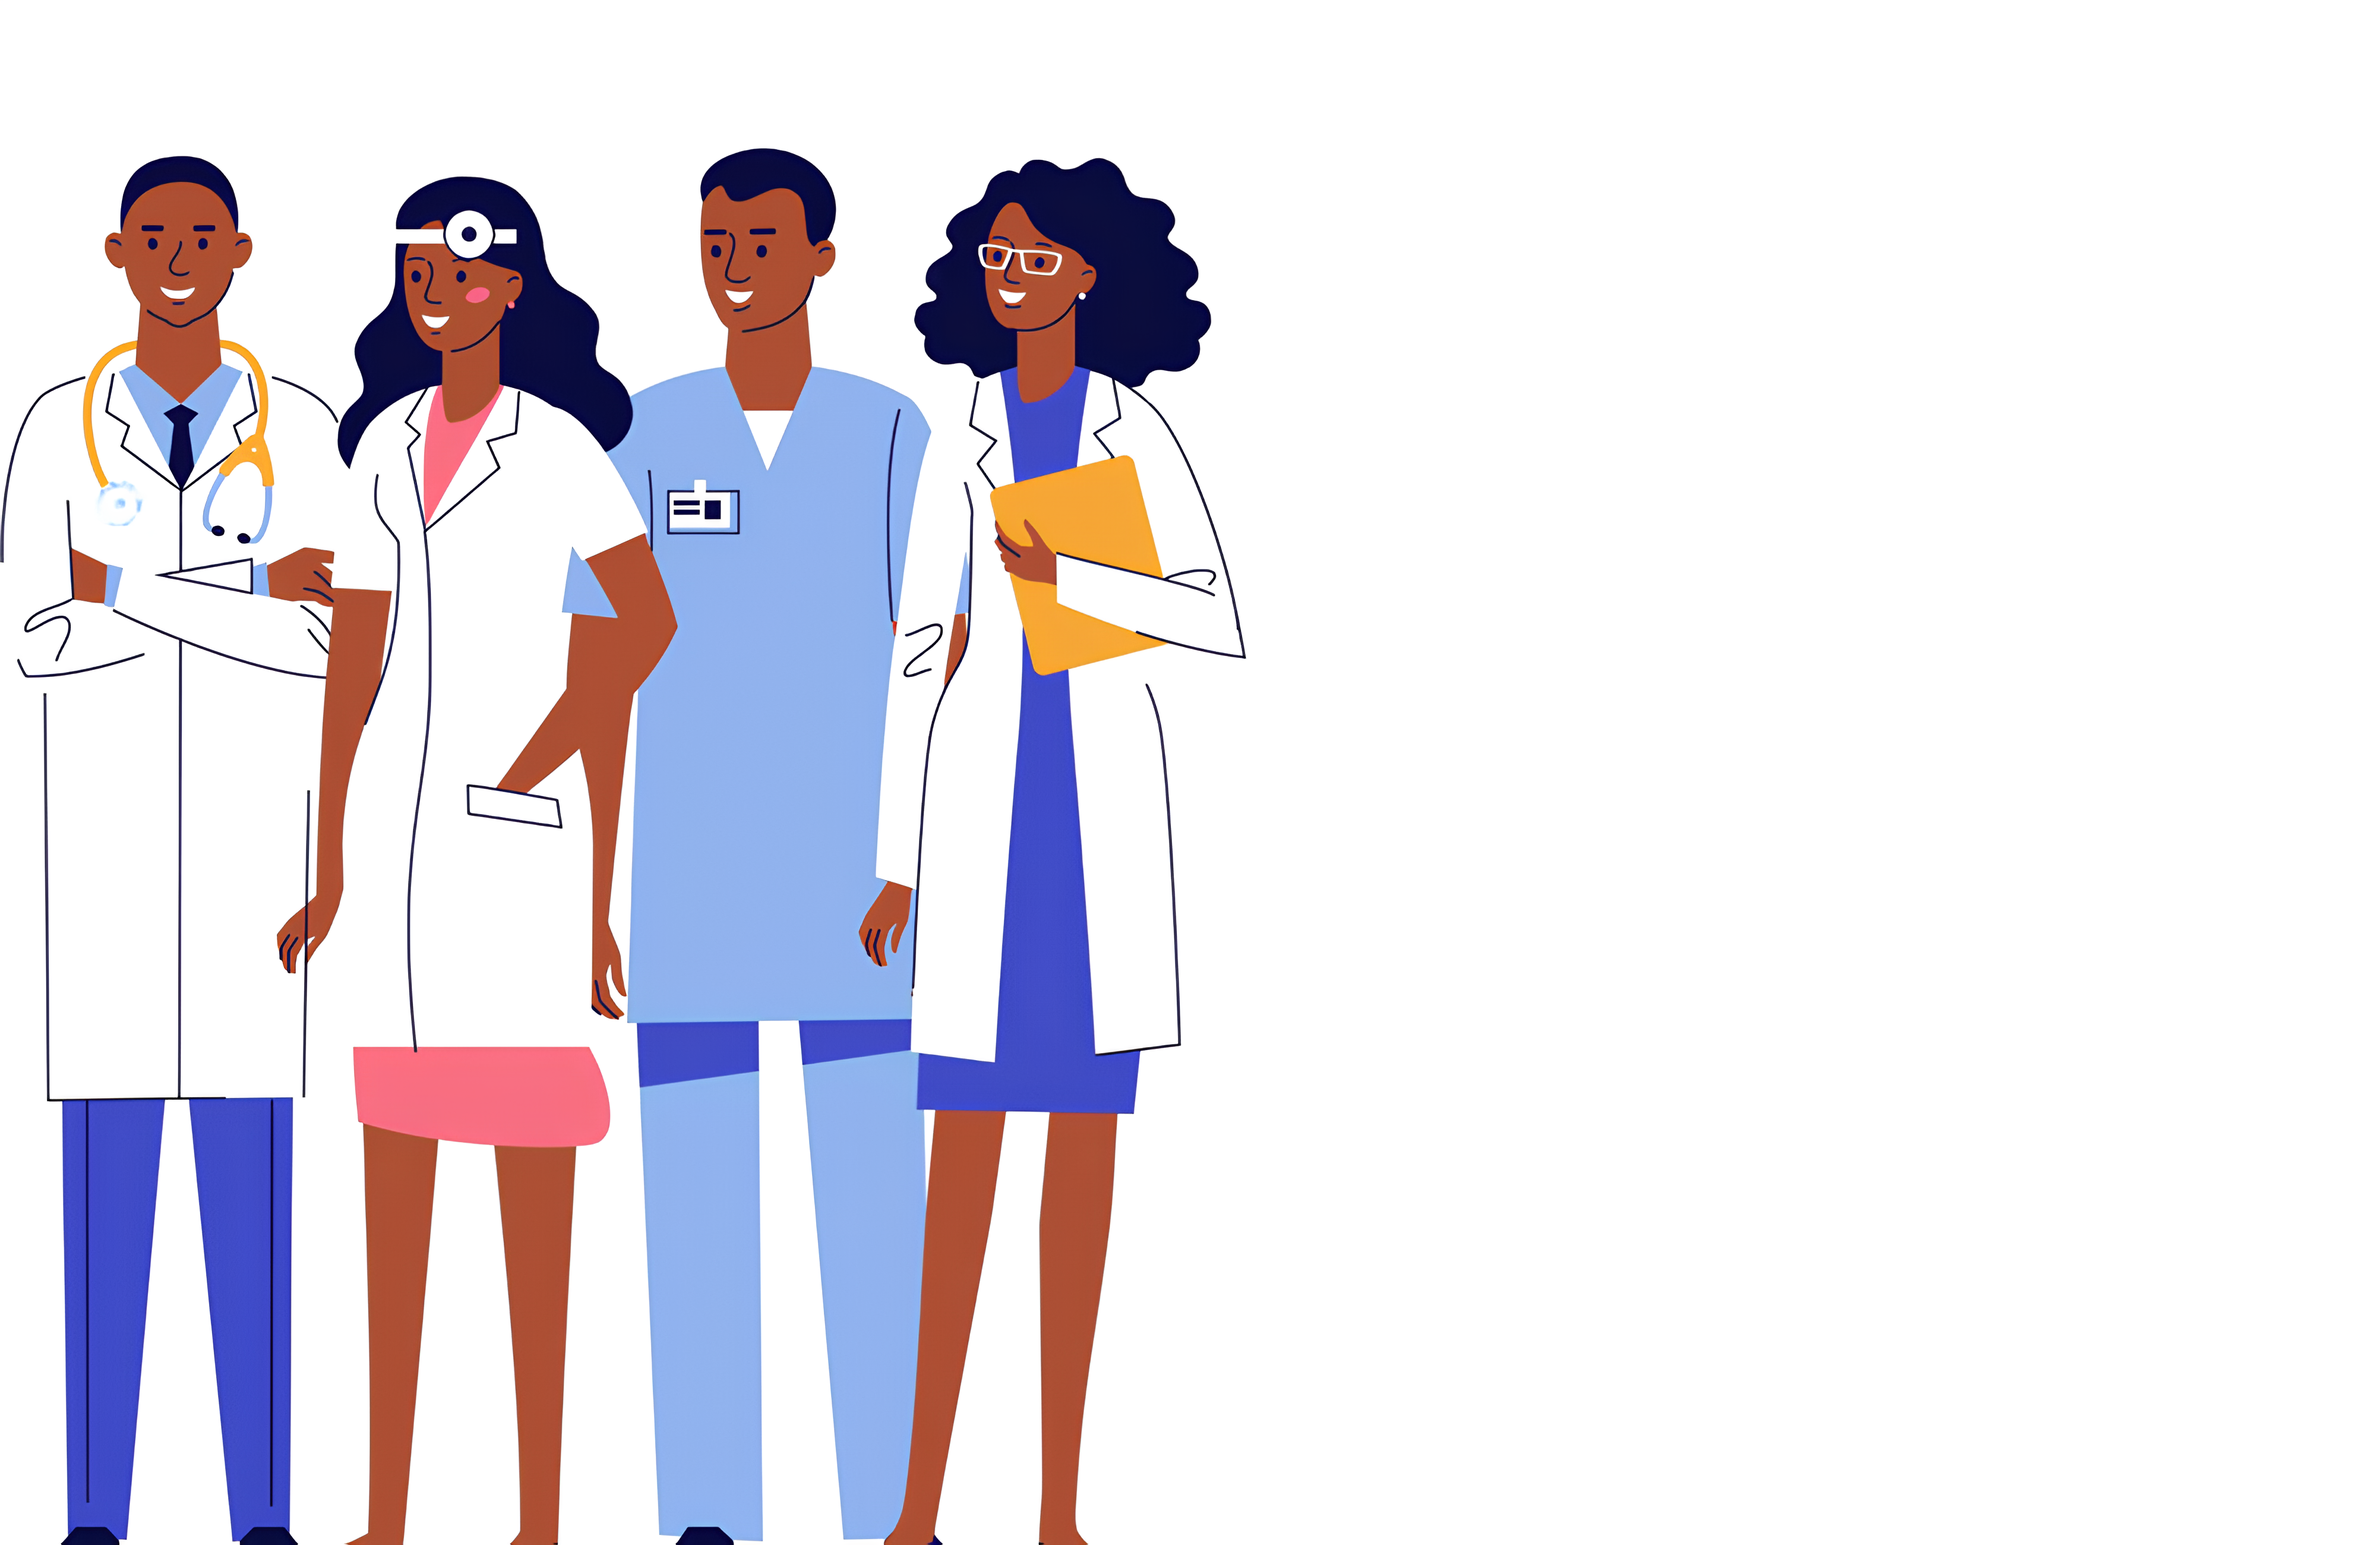
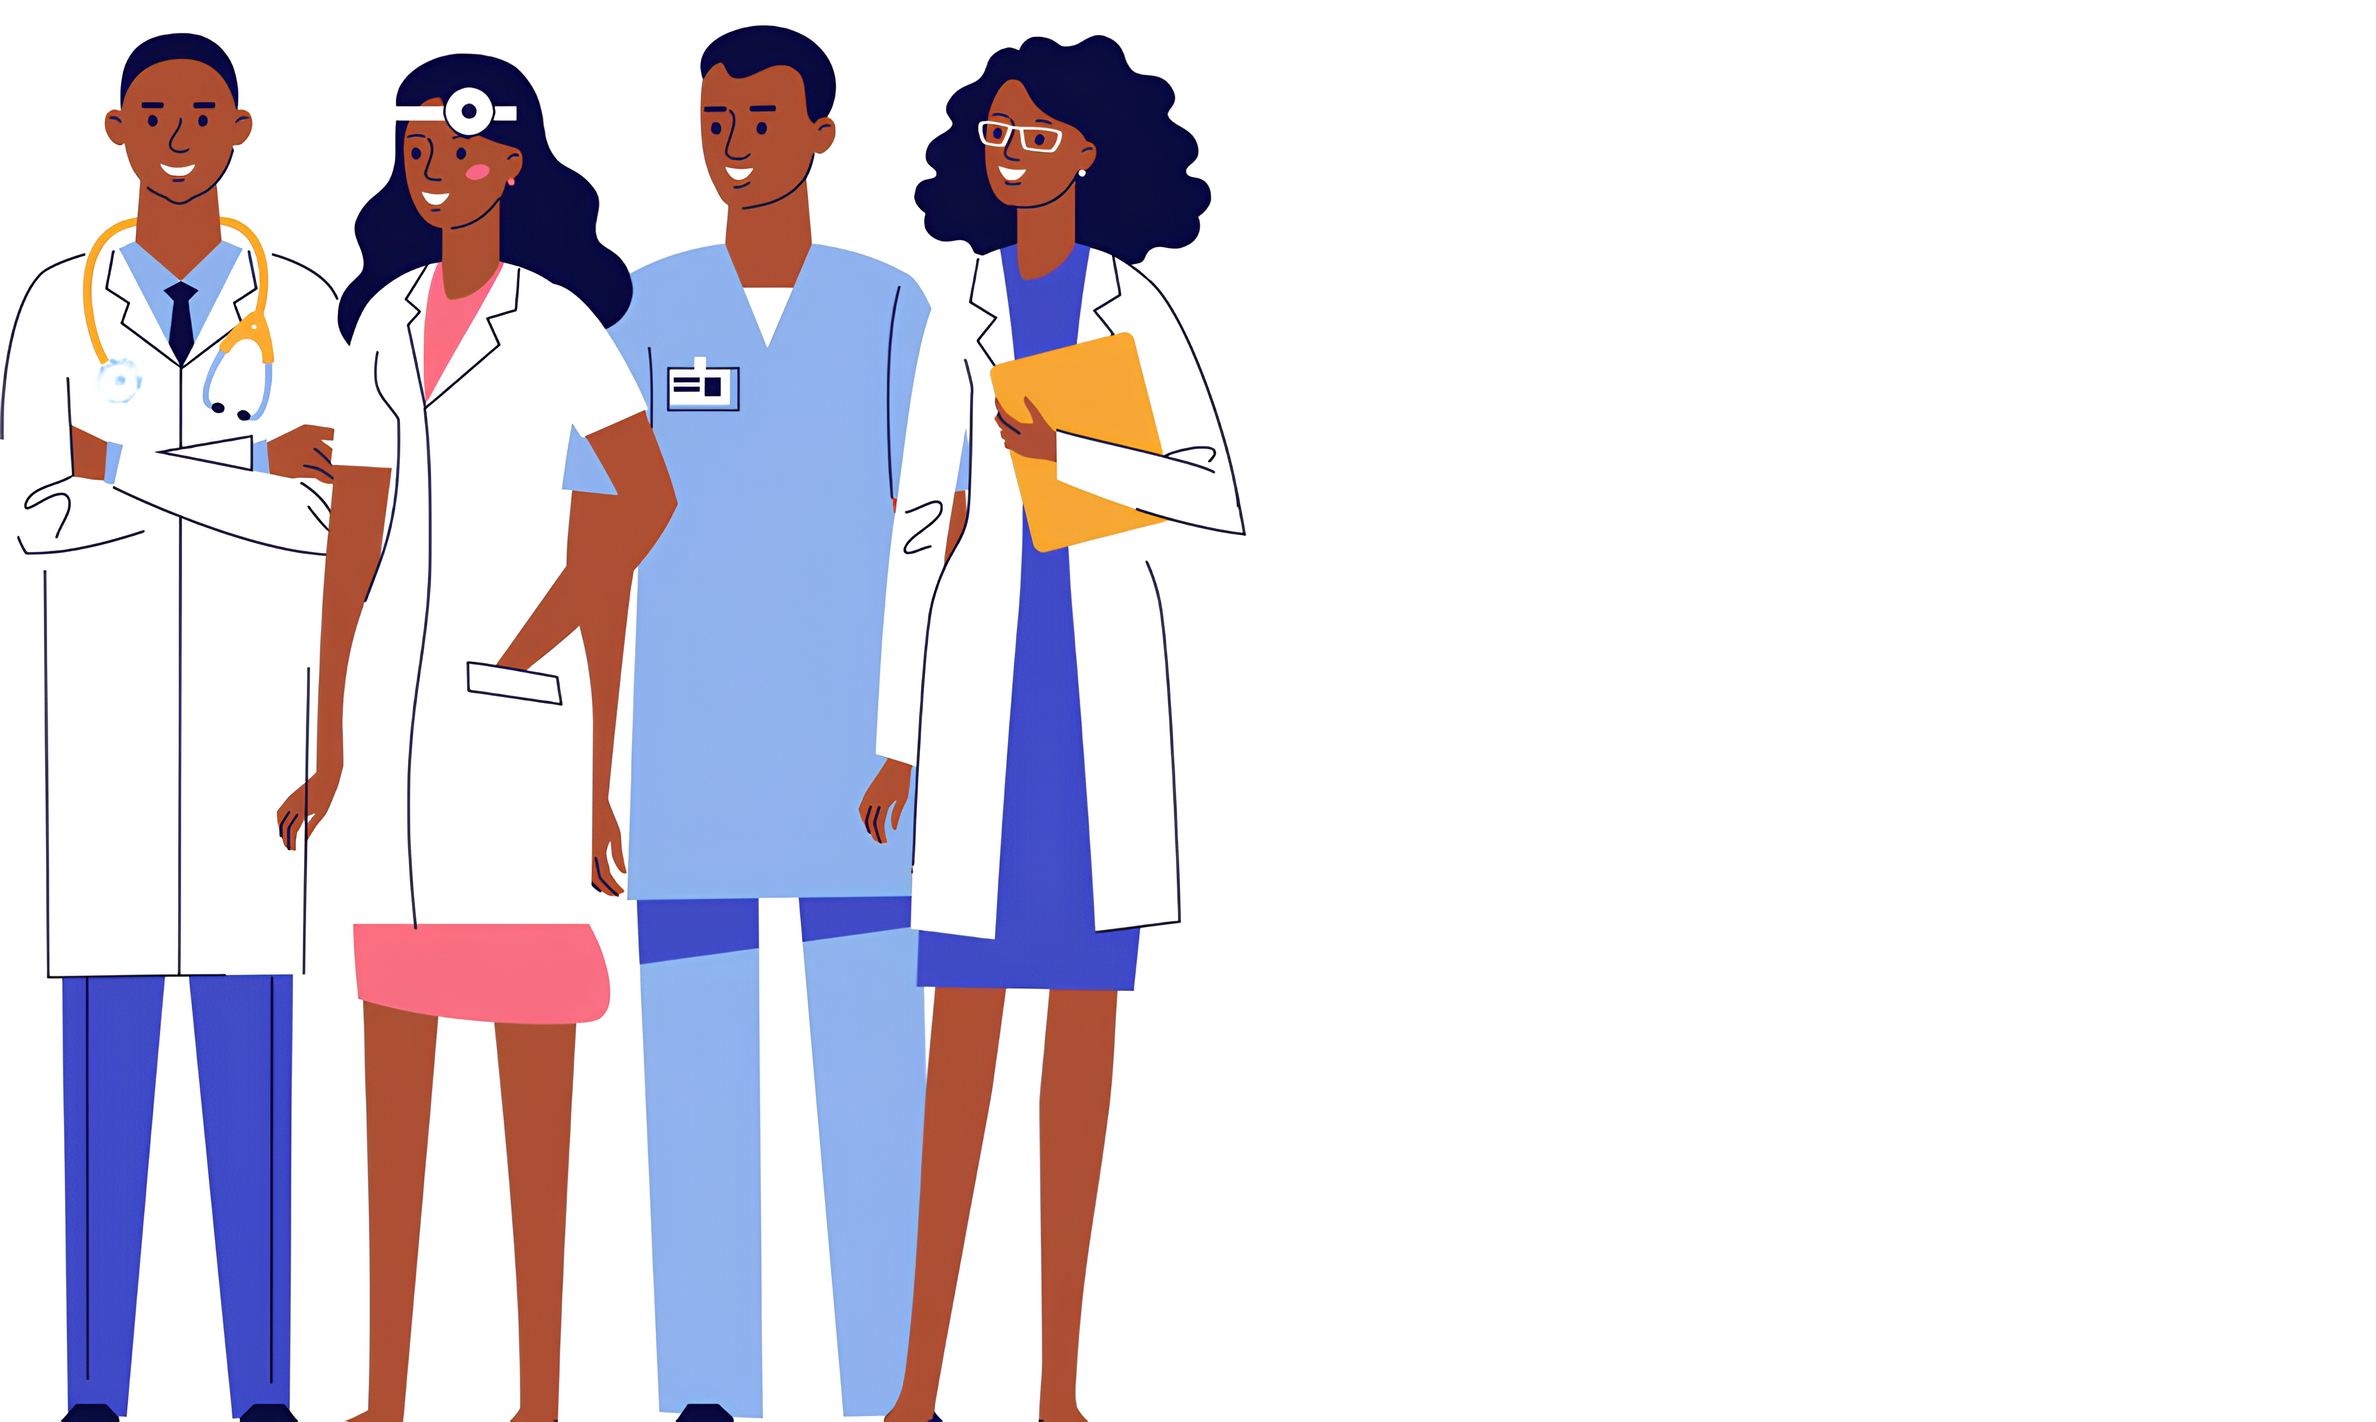
fixed some css for the home page

Changed region(s): [[0.0, 0.0, 0.5312, 0.7731]]

diff --git a/client/src/pages/Home.css b/client/src/pages/Home.css
@@ -1,7 +1,7 @@
 .background-image{
     background: url(../components/doctors.png);
     width: 100%;
-    height: 80vh;
+    height: 75vh;
     background-size: cover;
     background-repeat: no-repeat;
     margin-top: 0px;
@@ -40,6 +40,7 @@
     font-family: "Josefin Sans", sans-serif;
     background-color: white;
     padding: 20px;
+    margin: 0;
     display: flex;
     justify-content: space-between;
     align-items: center;
@@ -59,7 +60,7 @@
 
 .image-container {
     width: 50%;
-    height: 90vh;
+    height: 70vh;
     background-image: url('../components/doctors2.png');
     background-size: cover;
     float: left;
@@ -71,6 +72,7 @@
 body {
     font-family: "Josefin Sans", sans-serif;
     margin: 0;
+    margin-top: 30px;
     padding: 0;
 }
 

diff --git a/client/src/pages/home.js b/client/src/pages/home.js
@@ -26,7 +26,7 @@ const Home = () => {
     };
 
     return(
-            <><Header /><div className="home">
+            <><Header /><body></body><div className="home">
                 <div class = "background-image">
                     <div class = "background-content">
                         <h1>Deliver an unparalleled standard of care for patients</h1>
@@ -39,7 +39,7 @@ const Home = () => {
                 <br></br>
 
                 <div class="divider"></div>
-
+                
                 <div className="about">
                     <div className="main-about">
                         <h1>About Us</h1>
